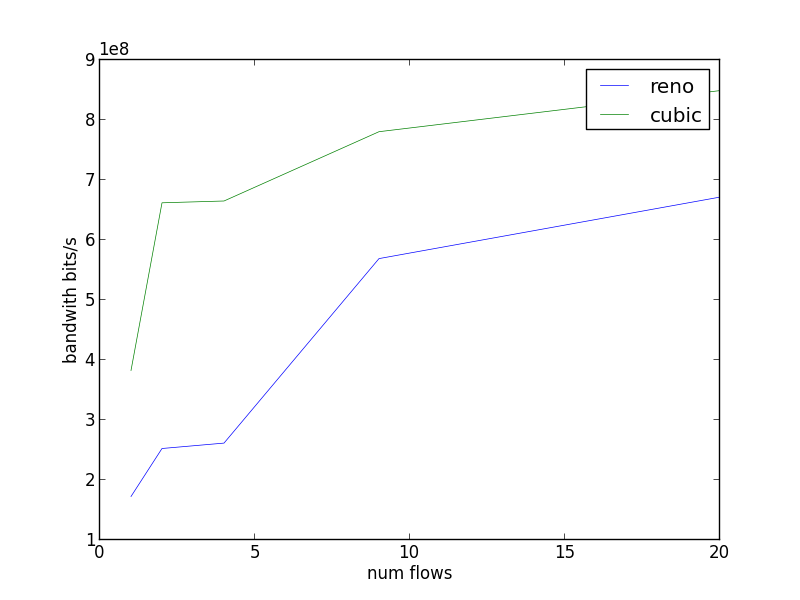
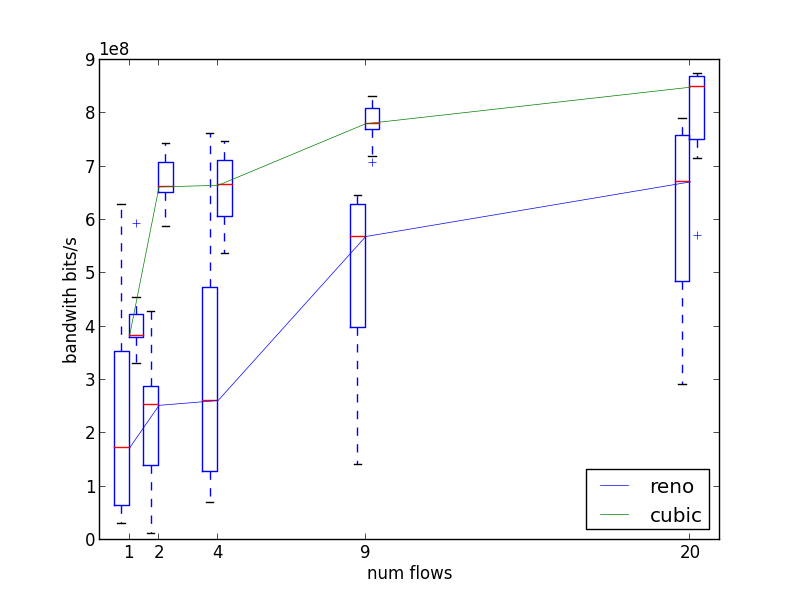
[documentation] userguide: add box&whiskers + improve legend placement

diff --git a/doc/code_samples/g5k_tcp_congestion_process_results.py b/doc/code_samples/g5k_tcp_congestion_process_results.py
@@ -19,13 +19,19 @@ if __name__ == "__main__":
               [ result["params"]["num_flows"] for result in results ] }
         for tcp_congestion_control in
         [ result["params"]["tcp_congestion_control"] for result in results ] }
+    offset = -.25
     for tcp_congestion_control in arranged_results.keys():
+        plt.boxplot(arranged_results[tcp_congestion_control].values(),
+                    positions = [pos + offset for pos in arranged_results[tcp_congestion_control].keys() ])
         plt.plot(
             sorted(arranged_results[tcp_congestion_control].keys()),
             [ stats.scoreatpercentile(arranged_results[tcp_congestion_control][num_flows], 50)
               for num_flows in sorted(arranged_results[tcp_congestion_control].keys())],
             label = tcp_congestion_control, linewidth=0.5)
+        offset += .5
+    plt.xlim(0, max(arranged_results[tcp_congestion_control].keys()) + 1)
+    plt.xticks(arranged_results[tcp_congestion_control].keys())
+    plt.legend(loc = 'lower right')
     plt.xlabel('num flows')
     plt.ylabel('bandwith bits/s')
-    plt.legend()
     plt.savefig("g5k_tcp_congestion.png")
